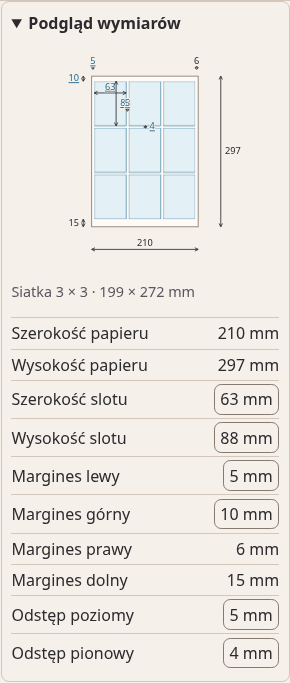
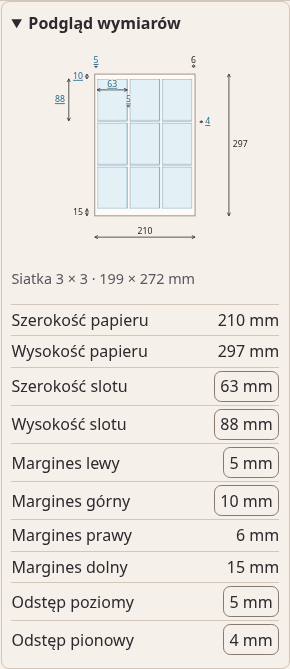
M2c-2: odsuń pionowe etykiety od klikalnych szerokości

diff --git a/src/ui/kartka/PodgladWymiarowUkladu.tsx b/src/ui/kartka/PodgladWymiarowUkladu.tsx
@@ -31,7 +31,8 @@ export function PodgladWymiarowUkladu({
   const skala = Math.min(186 / papier.szer, 180 / papier.wys);
   const szer = papier.szer * skala;
   const wys = papier.wys * skala;
-  const lewo = (320 - szer) / 2;
+  const szerRysunku = 340;
+  const lewo = (szerRysunku - szer) / 2;
   const gora = 42;
   const prawo = lewo + szer;
   const dol = gora + wys;
@@ -57,7 +58,7 @@ export function PodgladWymiarowUkladu({
       nazwa: 'uklad.diagram.papierWys',
       mm: papier.wys,
       ...(polaPapieru ? { pole: polaPapieru.wys } : {}),
-      strzalka: pionowa(gora, dol, prawo + 27),
+      strzalka: pionowa(gora, dol, prawo + 43),
     },
     {
       nazwa: 'uklad.diagram.slotSzer',
@@ -69,7 +70,7 @@ export function PodgladWymiarowUkladu({
       nazwa: 'uklad.diagram.slotWys',
       mm: slot.wysokosc,
       pole: 'uklad-wysokosc',
-      strzalka: pionowa(y1, y2, x2 - 12),
+      strzalka: pionowa(y1, y2, lewo - 33),
     },
     {
       nazwa: 'uklad.diagram.lewo',
@@ -102,14 +103,14 @@ export function PodgladWymiarowUkladu({
       nazwa: 'uklad.diagram.odstepY',
       mm: uklad.odstepPionowy,
       pole: 'uklad-odstep-y',
-      strzalka: pionowa(y2, y(uklad.gora + slot.wysokosc + uklad.odstepPionowy), x2 + 23),
+      strzalka: pionowa(y2, y(uklad.gora + slot.wysokosc + uklad.odstepPionowy), prawo + 8),
     });
 
   const poza = siatka.prawo < -1e-6 || siatka.dol < -1e-6;
   return (
     <details className="podglad-wymiarow">
       <summary>{t('uklad.diagram.tytul')}</summary>
-      <svg aria-hidden="true" viewBox={`0 0 320 ${dol + 48}`}>
+      <svg aria-hidden="true" viewBox={`0 0 ${szerRysunku} ${dol + 48}`}>
         <defs>
           <clipPath id={`${id}-papier`}>
             <rect x={lewo} y={gora} width={szer} height={wys} />

diff --git a/testy/uklad.spec.ts b/testy/uklad.spec.ts
@@ -101,13 +101,18 @@ test('diagram małego slotu rozdziela etykiety rozmiaru i zerowego odstępu', as
   const podpis = (pole: string) => ust.locator(`.podglad-wymiarow svg text[data-pole="${pole}"]`);
   const rozmiar = podpis('uklad-szerokosc');
   const odstep = podpis('uklad-odstep-x');
+  const wysokosc = podpis('uklad-wysokosc');
   await expect(rozmiar).toHaveText('25,75');
   await expect(odstep).toHaveText('0');
   const a = (await rozmiar.boundingBox())!;
   const b = (await odstep.boundingBox())!;
+  const c = (await wysokosc.boundingBox())!;
   expect(b.y).toBeGreaterThanOrEqual(a.y + a.height);
+  expect(c.x + c.width).toBeLessThanOrEqual(a.x);
   await rozmiar.click();
   await expect(ust.getByLabel('Szerokość karty (mm)')).toBeFocused();
+  await wysokosc.click();
+  await expect(ust.getByLabel('Wysokość karty (mm)')).toBeFocused();
   await odstep.click();
   await expect(ust.getByLabel('Odstęp poziomy (mm)')).toBeFocused();
 });
